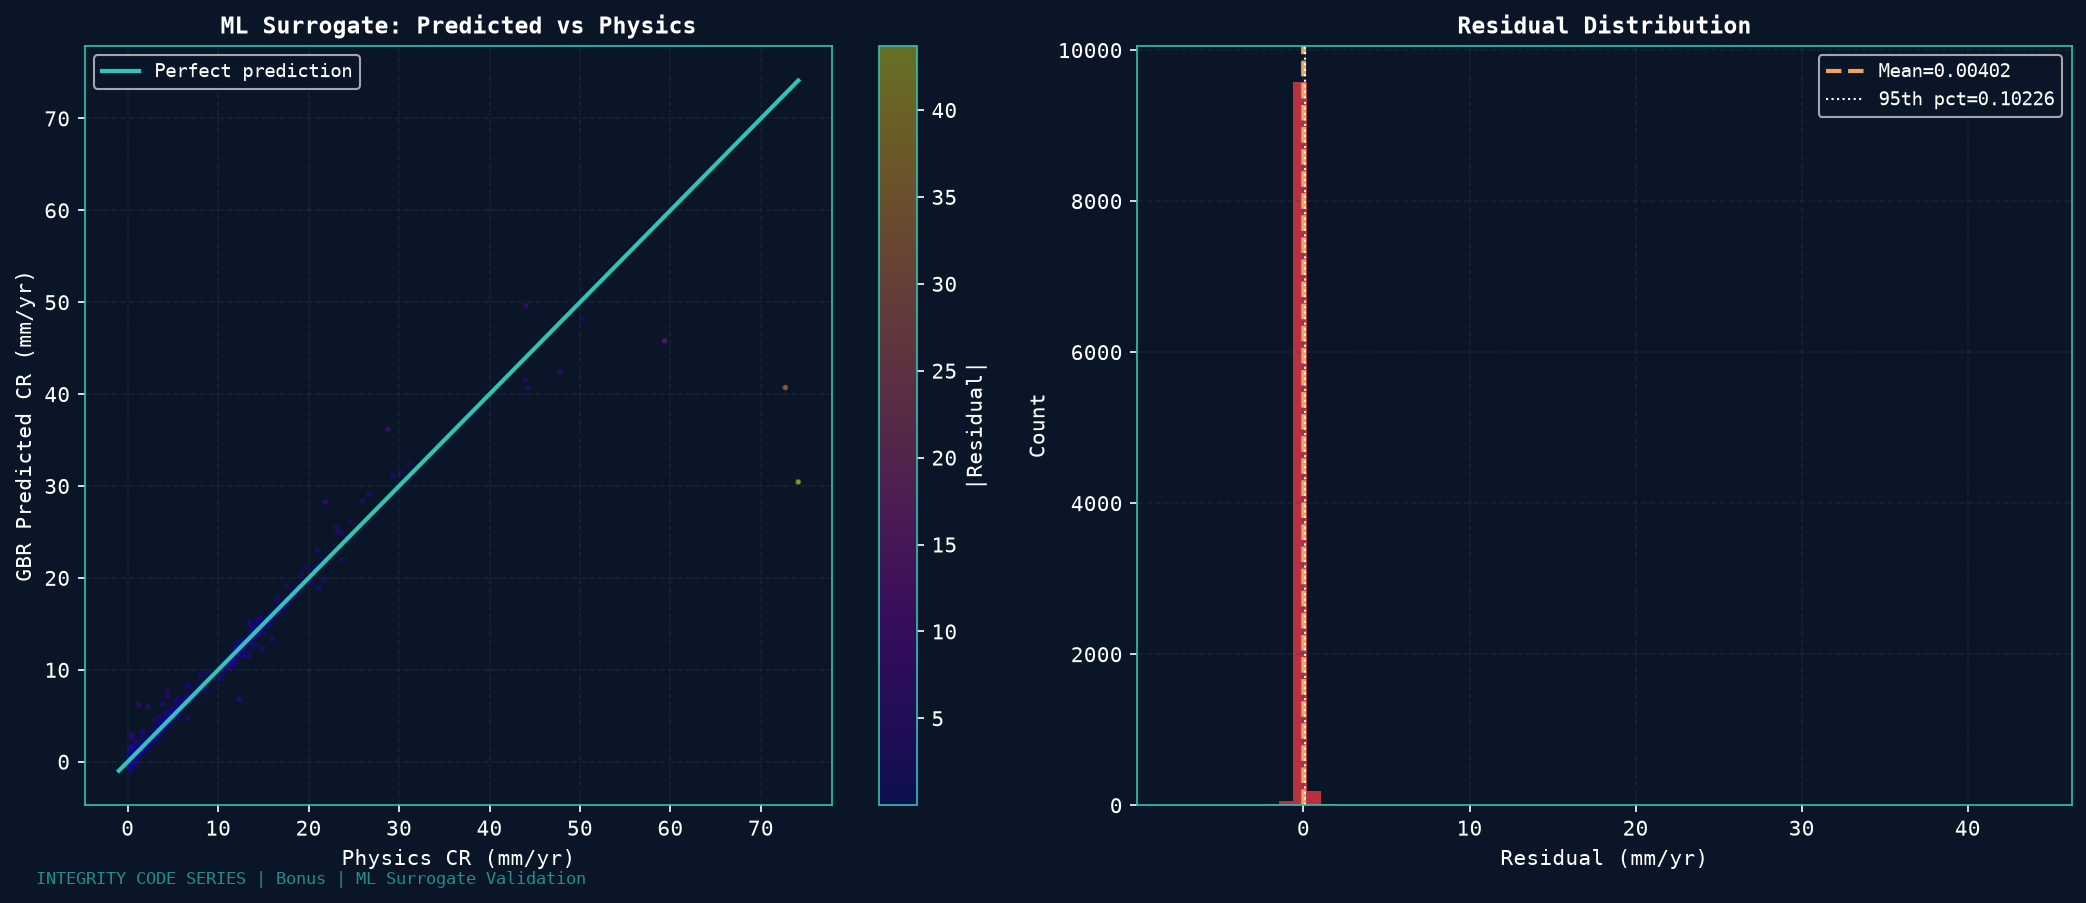
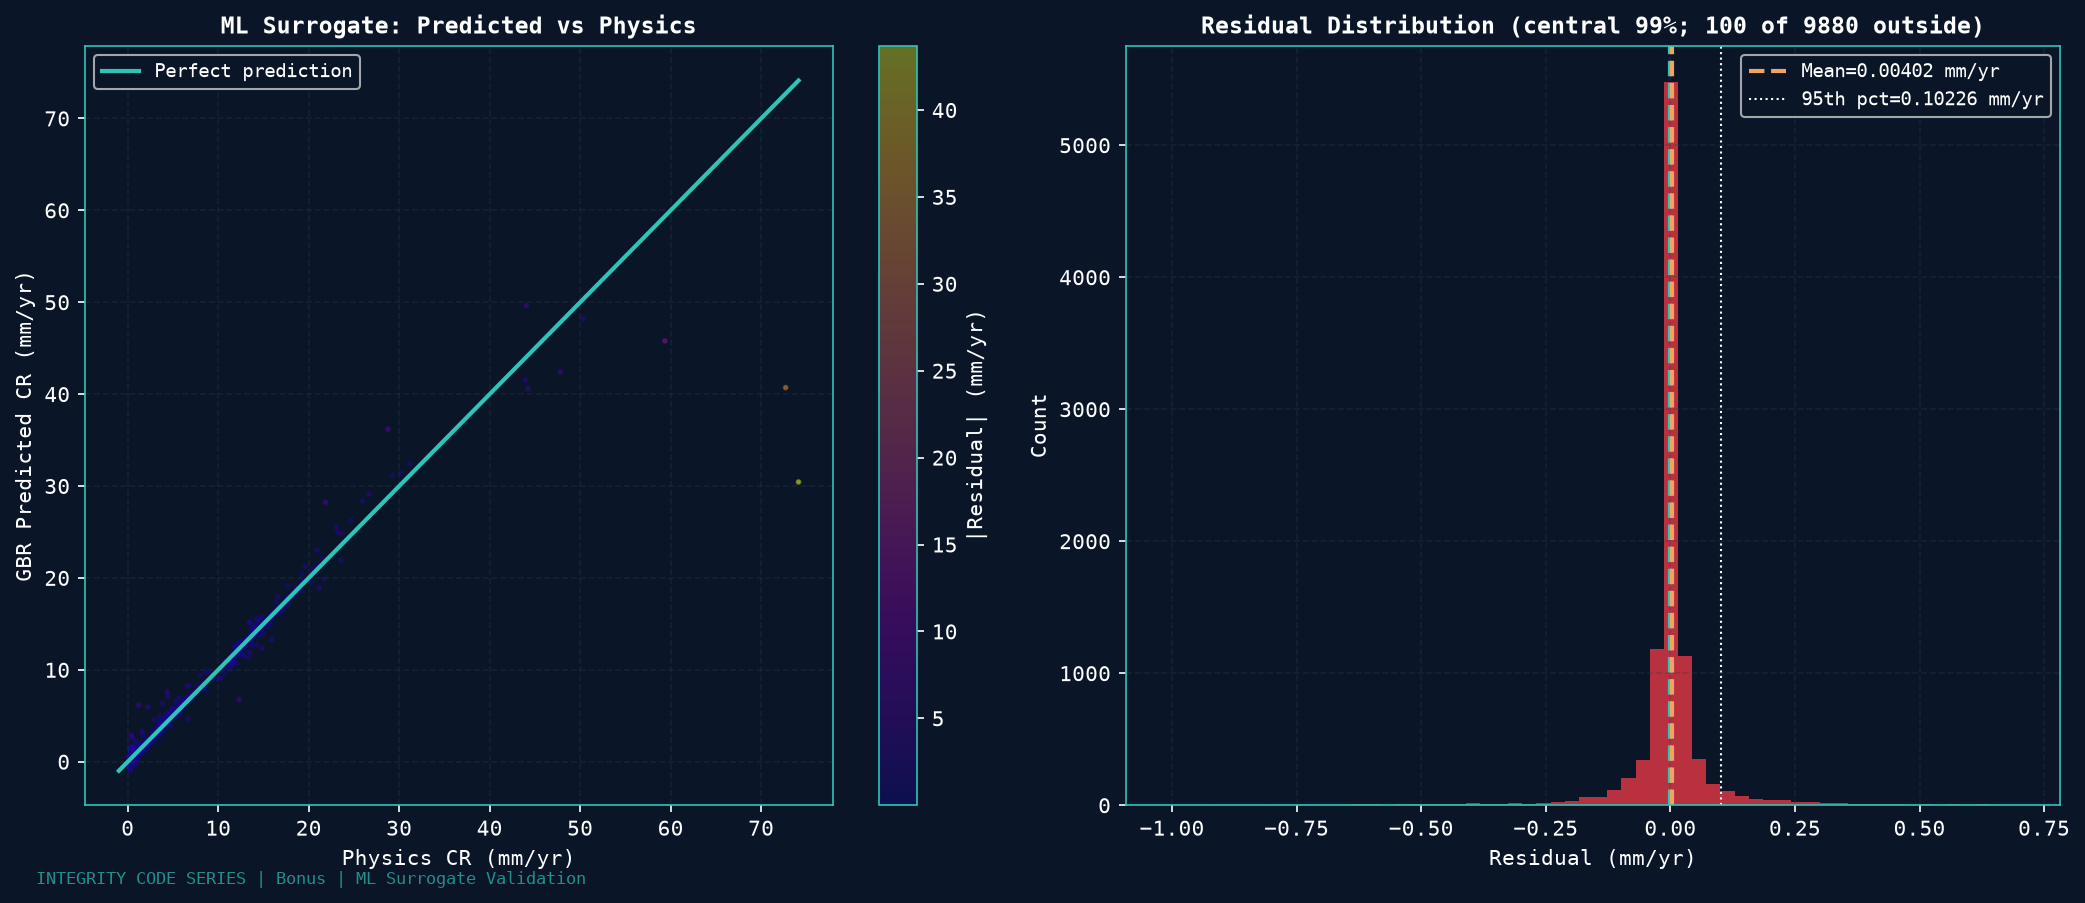
fix(viz): match colour scales to data and unclutter secondary figures
- hero surface: colour limits set to the data range. The default norm used
  face-averaged z, so the colorbar ended at 1.0 mm/yr while the surface
  peaks near 1.5. Removed a resonance axvline that does not render on 3D axes.
- iso-risk map and GIF: frequency range 3-50 Hz -> 3-70 Hz so both sides of
  f_n = 50.3 Hz are shown (the GIF title says "sweep through resonance";
  it stopped below f_n). Danger-zone label moved off the f_n line.
- time domain: yield line removed from the stress axis (448 MPa vs a 7 MPa
  signal flattened the trace); peak and yield are stated as text.
- residuals: histogram bins the central 99% with the outlier count in the
  title; units added to colorbar and legend.
- sensitivity: x label is a dimensionless correlation (was "mm/yr");
  negative value labels no longer overlap the bars.

Sweep dataset, model files and computed results are unchanged; size
increases come from the wider frequency range (GIF 1.8 -> 2.2 MB) and
the now visible stress trace.

diff --git a/src/visualization/viz_suite.py b/src/visualization/viz_suite.py
@@ -102,15 +102,14 @@ def plot_hero_3d_surface(df_path: str = "assets/parametric_sweep.csv"):
     ax = fig.add_subplot(111, projection='3d')
     ax.set_facecolor(BRAND_COLOR)
 
+    # Explicit limits: the default norm uses face-averaged z, so the colorbar
+    # would stop below the vertex peak.
     surf = ax.plot_surface(Fr_grid, F_grid, Z,
                            cmap="plasma",
+                           vmin=np.nanmin(Z), vmax=np.nanmax(Z),
                            alpha=0.9,
                            linewidth=0.3,
                            edgecolors=None)
-
-    # Mark resonance plane
-    fn_hz = np.sqrt(5e6 / 50.0) / (2 * np.pi)
-    ax.axvline(x=fn_hz, color=ACCENT1, linestyle="--", alpha=0.5, linewidth=2, label=None)
 
     cb = fig.colorbar(surf, ax=ax, shrink=0.5, pad=0.1)
     cb.set_label("CR (mm/yr)", color="white", fontsize=11)
@@ -166,7 +165,8 @@ def _hero_fallback():
     fig = plt.figure(figsize=(14, 9), facecolor=BRAND_COLOR)
     ax = fig.add_subplot(111, projection='3d')
     ax.set_facecolor(BRAND_COLOR)
-    surf = ax.plot_surface(FR, FF, Z, cmap="plasma", alpha=0.9)
+    surf = ax.plot_surface(FR, FF, Z, cmap="plasma", alpha=0.9,
+                           vmin=np.nanmin(Z), vmax=np.nanmax(Z))
     cb = fig.colorbar(surf, ax=ax, shrink=0.5, pad=0.1)
     cb.set_label("CR (mm/yr)", color="white")
     cb.ax.yaxis.set_tick_params(color="white")
@@ -210,10 +210,10 @@ def plot_time_domain():
     axes[0].axhline(0, color="white", linewidth=0.3, alpha=0.3)
 
     axes[1].plot(t, sigma / 1e6, color=ACCENT3, linewidth=0.8, alpha=0.9)
-    axes[1].axhline(mp.yield_strength / 1e6, color=ACCENT1, linewidth=1, linestyle="--",
-                    label=f"Yield ({mp.yield_strength/1e6:.0f} MPa)")
+    # Yield is ~100x the signal; drawing it as a line flattens the trace.
+    axes[1].text(0.99, 0.92, f"peak {sigma.max()/1e6:.1f} MPa  |  yield {mp.yield_strength/1e6:.0f} MPa (off scale)",
+                 transform=axes[1].transAxes, ha="right", va="top", fontsize=9, color=ACCENT1)
     axes[1].set_ylabel("Surface Stress (MPa)", fontsize=10)
-    axes[1].legend(fontsize=9, loc="upper right")
     axes[1].grid(True, alpha=0.3)
 
     axes[2].plot(t, CR, color=ACCENT1, linewidth=0.8, alpha=0.9)
@@ -264,22 +264,26 @@ def plot_residuals(model_dir: str = "assets/models"):
     ax.legend(fontsize=9)
     ax.grid(True, alpha=0.3)
     cb = fig.colorbar(scatter, ax=ax)
-    cb.set_label("|Residual|", color="white")
+    cb.set_label("|Residual| (mm/yr)", color="white")
     cb.ax.yaxis.set_tick_params(color="white")
     plt.setp(plt.getp(cb.ax.axes, 'yticklabels'), color="white")
 
-    # Residual distribution
+    # Residual distribution: bin the central 99% so the bulk is visible;
+    # a few large outliers would otherwise squeeze it into one bin.
     ax2 = axes[1]
     ax2.set_facecolor(BRAND_COLOR)
-    ax2.hist(residuals, bins=60, color=ACCENT1, alpha=0.8, edgecolor="none")
+    lo, hi = np.percentile(residuals, [0.5, 99.5])
+    n_out = int(np.sum((residuals < lo) | (residuals > hi)))
+    ax2.hist(residuals, bins=60, range=(lo, hi), color=ACCENT1, alpha=0.8, edgecolor="none")
     ax2.axvline(0, color=ACCENT2, linewidth=2, linestyle="--")
     ax2.axvline(np.mean(residuals), color=ACCENT3, linewidth=2, linestyle="--",
-                label=f"Mean={np.mean(residuals):.5f}")
+                label=f"Mean={np.mean(residuals):.5f} mm/yr")
     ax2.axvline(np.percentile(residuals, 95), color="white", linewidth=1, linestyle=":",
-                label=f"95th pct={np.percentile(residuals,95):.5f}")
+                label=f"95th pct={np.percentile(residuals,95):.5f} mm/yr")
     ax2.set_xlabel("Residual (mm/yr)", fontsize=10)
     ax2.set_ylabel("Count", fontsize=10)
-    ax2.set_title("Residual Distribution", fontsize=11, fontweight="bold")
+    ax2.set_title(f"Residual Distribution (central 99%; {n_out} of {len(residuals)} outside)",
+                  fontsize=11, fontweight="bold")
     ax2.legend(fontsize=9)
     ax2.grid(True, alpha=0.3)
 
@@ -308,7 +312,7 @@ def plot_iso_risk_map():
     force = 800.0
 
     fn_hz = np.sqrt(k / mass) / (2 * np.pi)
-    freqs = np.linspace(3, 50, 60)
+    freqs = np.linspace(3, 70, 60)   # span both sides of f_n = 50.3 Hz
     damps = np.linspace(0.005, 0.15, 60)
 
     FF, DD = np.meshgrid(freqs, damps)
@@ -337,7 +341,7 @@ def plot_iso_risk_map():
 
     # Risk zones
     ax.fill_betweenx([0.005, 0.15], fn_hz - 2, fn_hz + 2, alpha=0.15, color=ACCENT1)
-    ax.text(fn_hz, 0.135, "RESONANCE\nDANGER ZONE", ha="center", fontsize=9,
+    ax.text(fn_hz + 2.5, 0.135, "RESONANCE\nDANGER ZONE", ha="left", fontsize=9,
             color=ACCENT1, fontweight="bold")
 
     cb = fig.colorbar(contourf, ax=ax)
@@ -381,7 +385,7 @@ def generate_gif():
     damp = 0.03
     fn_hz = np.sqrt(k / mass) / (2 * np.pi)
 
-    freqs_sweep = np.linspace(3, 50, 48)  # 48 frames
+    freqs_sweep = np.linspace(3, 70, 48)  # 48 frames, through f_n = 50.3 Hz
 
     fig, axes = plt.subplots(1, 2, figsize=(14, 6), facecolor=BRAND_COLOR)
     fig.subplots_adjust(wspace=0.35)
@@ -424,7 +428,6 @@ def generate_gif():
         t_wave = np.linspace(0, 0.5, 500)
         x_wave = x_ss * np.sin(omega * t_wave)
         axes[1].plot(t_wave, x_wave * 1e6, color=ACCENT2, linewidth=1.5)
-        axes[1].set_ylim(-max(all_CR) * 500, max(all_CR) * 500)
         amplitude_um = x_ss * 1e6
         axes[1].set_ylim(-amplitude_um * 2 - 1, amplitude_um * 2 + 1)
         axes[1].set_xlabel("Time (s)", fontsize=10)
@@ -471,14 +474,16 @@ def plot_sensitivity(df_path: str = "assets/parametric_sweep.csv"):
     ax.set_facecolor(BRAND_COLOR)
     bars = ax.barh(features, corrs, color=colors, edgecolor="none", alpha=0.85)
     ax.axvline(0, color="white", linewidth=1, alpha=0.5)
-    ax.set_xlabel("Pearson Correlation with CR_rms (mm/yr)", fontsize=11)
+    ax.margins(x=0.15)   # room for the value labels at both ends
+    ax.set_xlabel("Pearson correlation with CR_rms (-)", fontsize=11)
     ax.set_title("SENSITIVITY ANALYSIS: Input Parameters vs Corrosion Rate",
                  fontsize=12, fontweight="bold")
     ax.grid(True, alpha=0.3, axis="x")
 
     for bar, val in zip(bars, corrs):
         ax.text(val + 0.01 * np.sign(val), bar.get_y() + bar.get_height()/2,
-                f"{val:+.3f}", va="center", fontsize=9, color="white")
+                f"{val:+.3f}", va="center", ha="left" if val >= 0 else "right",
+                fontsize=9, color="white")
 
     fig.text(0.02, 0.01, "INTEGRITY CODE SERIES | Bonus | Sensitivity", fontsize=8, color=ACCENT2, alpha=0.7)
     plt.tight_layout()

diff --git a/README.md b/README.md
@@ -21,7 +21,7 @@ An ML surrogate (GBR) is trained on the physics-generated sweep. All governing e
 
 ## KEY RESULTS
 
-![Corrosion rate surface](assets/hero_3d_cr_surface.png)
+![3D surface of RMS corrosion rate versus excitation frequency and force amplitude for X65 in CO2 brine](assets/hero_3d_cr_surface.png)
 
 All numbers are model outputs, not measurements. See [EXPLICIT LIMITATIONS](#explicit-limitations).
 
